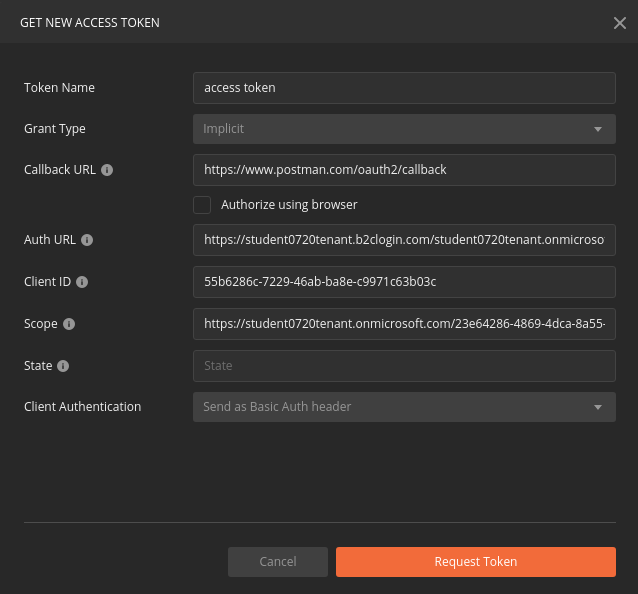
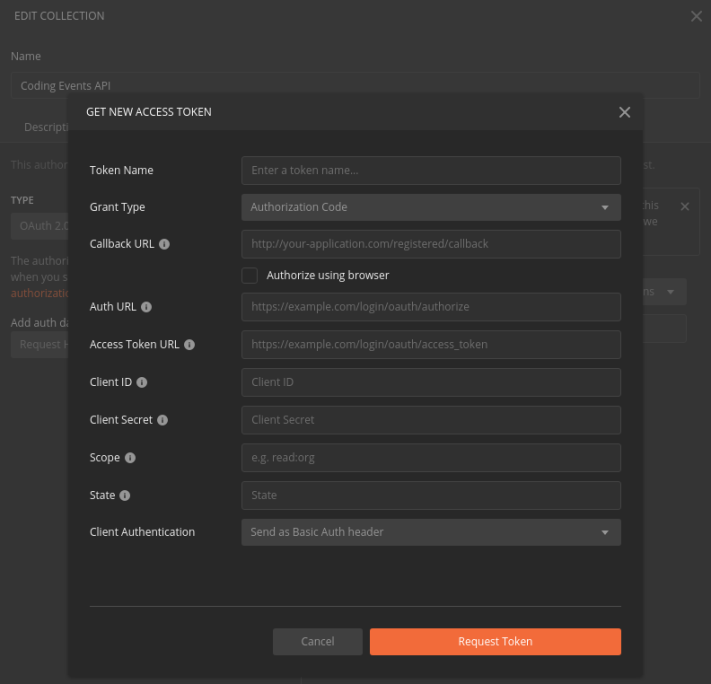
wt aadb2c access: fix for blank access token form
- other minor edits for clarity

diff --git a/src/chapters/intro-oauth-with-aadb2c/walkthrough_aadb2c-access.rst b/src/chapters/intro-oauth-with-aadb2c/walkthrough_aadb2c-access.rst
@@ -22,17 +22,10 @@ To accomplish this task we will need to:
 
 In the following Studio you will then update your Coding Events API source code to integrate with AADB2C and deploy it. Then you will use Postman and an access token to make authorized requests to the final version of the API.
 
-Set Up Postman
-==============
-
-This walkthrough will require working in both the Azure Portal on AADB2C as well as Postman to configure its requests for access tokens. We will begin by setting up Postman before switching to the Azure Portal.
-
-After the initial setup each of the subsequent steps will require you to switch between your browser and Postman to copy values from the Azure Portal into Postman.
-
 The Final Coding Events API Version
------------------------------------
+===================================
 
-The final branch of the Coding Events API includes many additions to the code base. Beyond the AADB2C integration, the update supports **Role Based Access Control (RBAC)** and **Attribute Based Access Control (ABAC)**. These industry terms describe patterns that are used for organizing logical rules that enforce **authorization**. 
+The final branch of the Coding Events API includes many additions to the code base. Beyond the AADB2C integration, the update supports **Role Based Access Control (RBAC)** and **Attribute Based Access Control (ABAC)**. These industry terms describe patterns that are used for organizing logical rules which enforce **authorization**. 
 
 .. admonition:: Tip
 
@@ -40,12 +33,28 @@ The final branch of the Coding Events API includes many additions to the code ba
 
 This version of the Coding Events API includes logic that restricts access to resources based on the following:
 
-- **Roles**: ``Public User``, ``Authenticated User``, ``Member``, ``Owner``
-- **Attributes**: ``Coding Event Membership``, ``Coding Event Ownership``
+- **Roles**: ``Public User`` (*anonymous*), ``Authenticated User``
+- **Attributes**: ``Coding Event Membership``, ``Coding Event Ownership`` 
 
 In addition to this authorization logic and the ``CodingEvent`` resource you saw before, the API now includes the ``Member`` and ``Tag`` resources. Because there are many more endpoints available in this version of the API you will find a Postman collection file in the repo that you can import. 
 
-Switch to the ``3-aadb2c`` branch in your forked ``coding-events-api`` repo. In the ``coding-events-api/CodingEventsAPI`` project directory is a Postman collection file called ``Postman_AADB2C-CodingEventsAPI-Collection.json``. Let's import this file into Postman.
+In the final branch of the API (``3-aadb2c``) the ``coding-events-api/CodingEventsAPI`` project directory contains the Postman collection file called ``Postman_AADB2C-CodingEventsAPI-Collection.json``. In the next step we will import this file into Postman.
+
+Set Up Postman
+==============
+
+This walkthrough will require working in both the Azure Portal on AADB2C as well as Postman to configure its requests for access tokens. We will begin by setting up Postman before switching to the Azure Portal.
+
+.. admonition:: Note
+
+  After this initial setup each of the subsequent steps will require you to switch between your browser and Postman to copy values from the Azure Portal into Postman.
+
+Import the Coding Events API Collection
+---------------------------------------
+
+.. admonition:: Warning
+
+  Make sure you switch to the ``3-aadb2c`` branch in your forked ``coding-events-api`` repo before continuing.
 
 Open Postman and select the **Import** button (next to **New**):
 
@@ -74,30 +83,32 @@ From the edit collection modal select the **Authorization** tab:
 
 In addition to the endpoints and organizing directories, this imported collection comes with many of the Authorization settings pre-configured for you. From this tab you can see it has already been configured to use OAuth for getting an access token. After getting the access token it will be automatically sent in the ``Authorization`` request header for every request made within the collection.
 
-The ``Bearer`` prefix will be used to indicate that Postman is the *bearer of a token that authorizes its requests* for interacting with the API *on behalf of its* **sub**\ject, the AADB2C user it was created for. The updated API then extracts and validates this token before processing the request using its RBAC and ABAC rules.
+The ``Bearer`` prefix will be used to indicate that Postman is the *bearer of a token that authorizes its requests* for interacting with the API *on behalf of its* **sub**\ject, the AADB2C user who authorized it. The updated API then extracts and validates this token before processing the request using its RBAC and ABAC rules.
+
+Configure the Access Token Request Form
+---------------------------------------
 
 Selecting the **Get New Access Token** button will open a modal with a form for configuring the access token request:
 
 .. image:: /_static/images/intro-oauth-with-aadb2c/walkthrough_aadb2c-access/postman/6fill-out-form.png
    :alt: Postman Authorization get new access token button
 
-This form allows you to define all of the information needed to request an access token. At this point it is populated with example entries for the AADB2C access token request.
+This form allows you to define all of the information needed to request an access token. At this point it is empty but you can configure the first field:
 
-.. admonition:: Warning
+- **Token Name**: ``access token``
 
-  The **Grant Type** field should be set to ``Implicit``. This should be the default but if it is not then you will need to update it.
+Throughout this walkthrough we will configure this form so Postman can request access tokens from our AADB2C service. By the end of the walkthrough you will have updated the following fields:
 
-In the following AADB2C configuration sections **you will replace these entries** with the values for your own tenant. You will need to update the following fields:
+- **Grant Type**: ``Implicit`` (since we will be using the implicit grant flow)
+- **Callback URL**: the *redirect URI* where the token will be sent after authorization
+- **Auth URL**: the URL of the authorization endpoint for the SUSI User Flow policy we created before
+- **Client ID**: the ID of the new Postman client application we will be registering (the *authorized party*, or bearer, of the access token)
+- **Scope**: the ``user_impersonation`` scope exposed by the registered Coding Events API application
+- **State**: an unguessable value used as an additional security measure (discussed later)
 
-- **Auth URL**: the **authorization URL** for the SUSI User Flow policy we created before
-- **Client ID**: the ID of the new Postman client application we will be registering with AADB2C in this walkthrough (the *authorized party*, or bearer, of the access token)
-- **Scope**: the ``user_impersonation`` scope exposed by the registered Coding Events API
+.. admonition:: Note
 
-.. admonition:: Warning
-
-   **Do not modify any other settings besides those listed in the instructions**. 
-
-Leave this form open in Postman and switch over to the Azure Portal.
+  Leave this form open in Postman and switch over to the Azure Portal in your browser.
 
 Protect the Coding Events API
 =============================
@@ -106,20 +117,10 @@ In this step we will configure AADB2C to protect our API. We will be setting up 
 
 First navigate to your AADB2C tenant directory. Then select the Coding Events API under **App Registrations**.
 
-.. Copy the API Client ID
-.. ----------------------
+Expose a ``user_impersonation`` Scope for the API
+-------------------------------------------------
 
-.. From the Coding Events API application dashboard copy the **client ID**:
-
-.. .. image:: /_static/images/intro-oauth-with-aadb2c/walkthrough_aadb2c-access/1set-api-scopes.png
-..    :alt: AADB2C expose an API
-
-.. Switch back to Postman and **replace the client ID field** with the copied value.
-
-Expose a user_impersonation Scope for the API
----------------------------------------------
-
-Next select the **Expose an API** settings from the left panel. From this view we can expose controlled access to our API using scopes.
+From the Coding Events API application dashboard select the **Expose an API** settings from the left panel. From this view we can create and *expose* scopes used for restricting access to our API.
 
 Select the **Add a scope** button:
 
@@ -196,9 +197,25 @@ Configure Authentication
 
 We will now configure the Postman application to use the **OAuth implicit flow** and set the redirect URI. On the left sidebar select the **Authentication** settings.
 
+Configure the Redirect URI
+^^^^^^^^^^^^^^^^^^^^^^^^^^
+
 In the **Web - Redirect URIs** add a new entry under the existing one. Select **add URI** and paste in the following value which Postman uses for handling OAuth redirects:
 
 - ``https://www.postman.com/oauth2/callback``
+
+As a reminder, this is where a user will be redirected after authenticating with AADB2C. When using the implicit flow the token(s) will be present as query string parameters attached to this URI. 
+
+Switch back to Postman and **replace the Callback URL field** with this value.
+
+.. admonition:: Warning
+
+   Before continuing make sure you have updated the Postman form:
+
+   - **Callback URL** field: ``https://www.postman.com/oauth2/callback``
+
+Configure Implicit Flow
+^^^^^^^^^^^^^^^^^^^^^^^
 
 Then scroll down to the **Implicit grant** section and, just as before, select the checkboxes **for both**:
 
@@ -210,10 +227,24 @@ Check that your configuration matches the picture below then select **Save**:
 .. image:: /_static/images/intro-oauth-with-aadb2c/walkthrough_aadb2c-access/5-2postman-authentication-configuration-complete.png
    :alt: Postman Authentication configuration completed view
 
+Switch back to Postman and **update the Grant Type field** to reflect this configuration.
+
+.. admonition:: Warning
+
+   Before continuing make sure you have updated the Postman form:
+
+   - **Grant Type** field: select ``Implicit`` (the grant type used by the registered Postman application)
+
 Grant Admin Permissions for Using the Scope
 -------------------------------------------
 
 In this step we will configure the Postman application to use the ``user_impersonation`` scope exposed by the Coding Events API application. To do this we will need to grant admin permissions for this scope.
+
+.. admonition:: Note
+
+  Although OAuth expects the user (resource owner) to provide this consent, **AADB2C does not support this feature at this time**. Currently AADB2C requires administrators to grant the permission on behalf of *all users within the tenant directory*.
+
+  While this is `very unusual behavior <https://github.com/Azure-Samples/active-directory-aspnetcore-webapp-openidconnect-v2/issues/329#issuecomment-664061513>`_ from an OAuth provider, the end effect is the same. A client application is *granted permission* to use a scope, but by an administrator rather than an individual user. 
 
 In the sidebar select the **API permissions** settings. Then select the **Add a permission** button:
 
@@ -243,8 +274,6 @@ After confirming your decision your configuration should match the image below.
 
 .. image:: /_static/images/intro-oauth-with-aadb2c/walkthrough_aadb2c-access/11admin-grant-success.png
    :alt: granted admin permission success
-
-.. If it does not match, you may need to select the **Refresh** button in the top corner after confirmation or refresh the page entirely.
 
 Test the User Flow for Access Tokens
 ====================================
@@ -367,6 +396,8 @@ Typically this parameter is used to store the state of a user on a site (like a 
 
 Before issuing the request check that you have updated all of the following fields:
 
+- **Token Name**: ``access token``
+- **Grant Type**: ``Implicit``
 - **Callback URL**: ``https://www.postman.com/oauth2/callback``
 - **Auth URL**: the ``authorization_endpoint`` from the JSON metadata document
 - **Client ID**: your client application identifier from the registered Postman application dashboard
@@ -375,9 +406,14 @@ Before issuing the request check that you have updated all of the following fiel
 
 .. admonition:: Warning
 
-   Make sure you have left the defaults for the remaining fields and that you **do not select** the option to **authorize using browser**.
+   Leave the defaults for the remaining fields. Make sure that:
+   
+   - you **do not select** the checkbox option to authorize using the browser (under Callback URL)
+   - the **Client Authentication** remains as ``Send as Basic Auth header``
 
-If everything has been updated properly you are ready to request your first access token! Select the **Request Token** button. This will open a popup to authenticate with your AADB2C tenant. As a reminder your password should be:
+If everything has been updated properly you are ready to request your first access token! Select the **Request Token** button. 
+
+This will open a popup to authenticate with your AADB2C tenant. As a reminder your password should be:
 
 - ``LaunchCode-@zure1``
 
@@ -401,12 +437,12 @@ Replacing an Expired Access Token
 
 As a reminder **you will need to request a new access token after one hour due to its expiration**. If a request fails during the studio it will likely be due to an expired token. 
 
-Postman can detect when a token is expired and will cross it out in the tokens list when it can no longer be used. These tokens can be discarded using the **trash icon** next to them:
+Postman can detect when a token is expired and will cross it out in the tokens list when it can no longer be used. These tokens can be discarded using the **Delete** menu or the **trash icon** when hovering over them:
 
 .. image:: /_static/images/intro-oauth-with-aadb2c/walkthrough_aadb2c-access/postman/11postman-expired-token.png
    :alt: Postman expired token
 
-However, now that you have everything configured it will be a quick process to request a new access token:
+Fortunately now that you have everything configured it will be a quick process to request a new access token:
 
 #. open the collection settings (three dots next to the collection name)
 #. switch to the **Authorization tab** and select **Get New Access Token**
